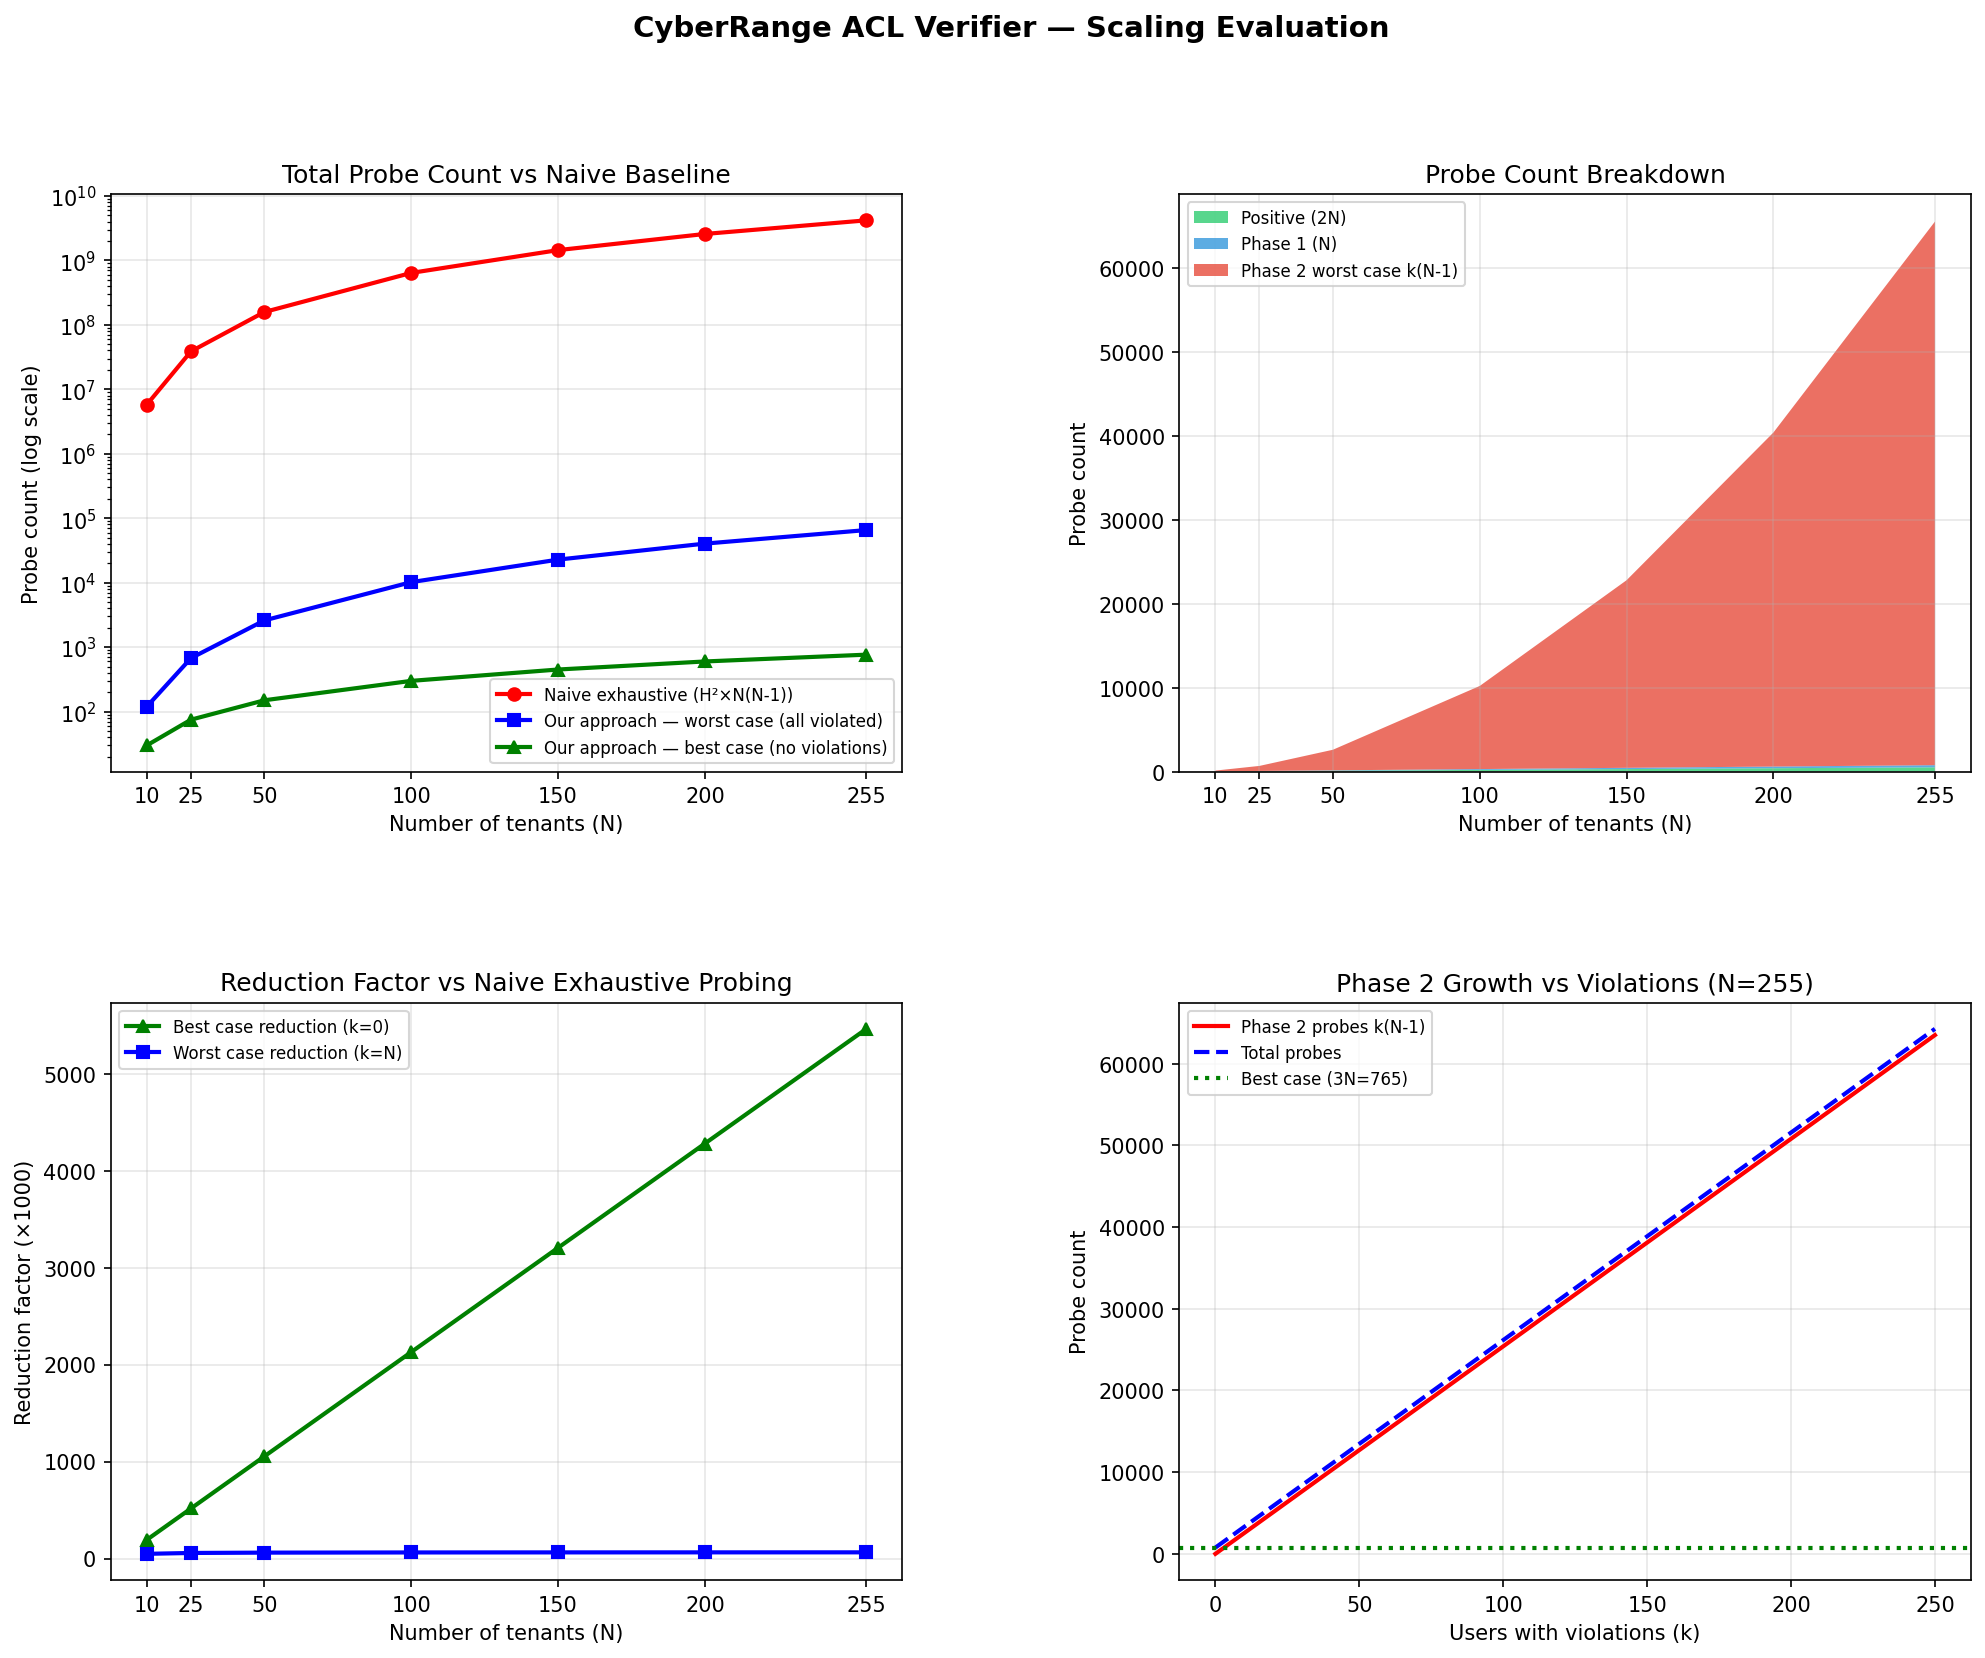
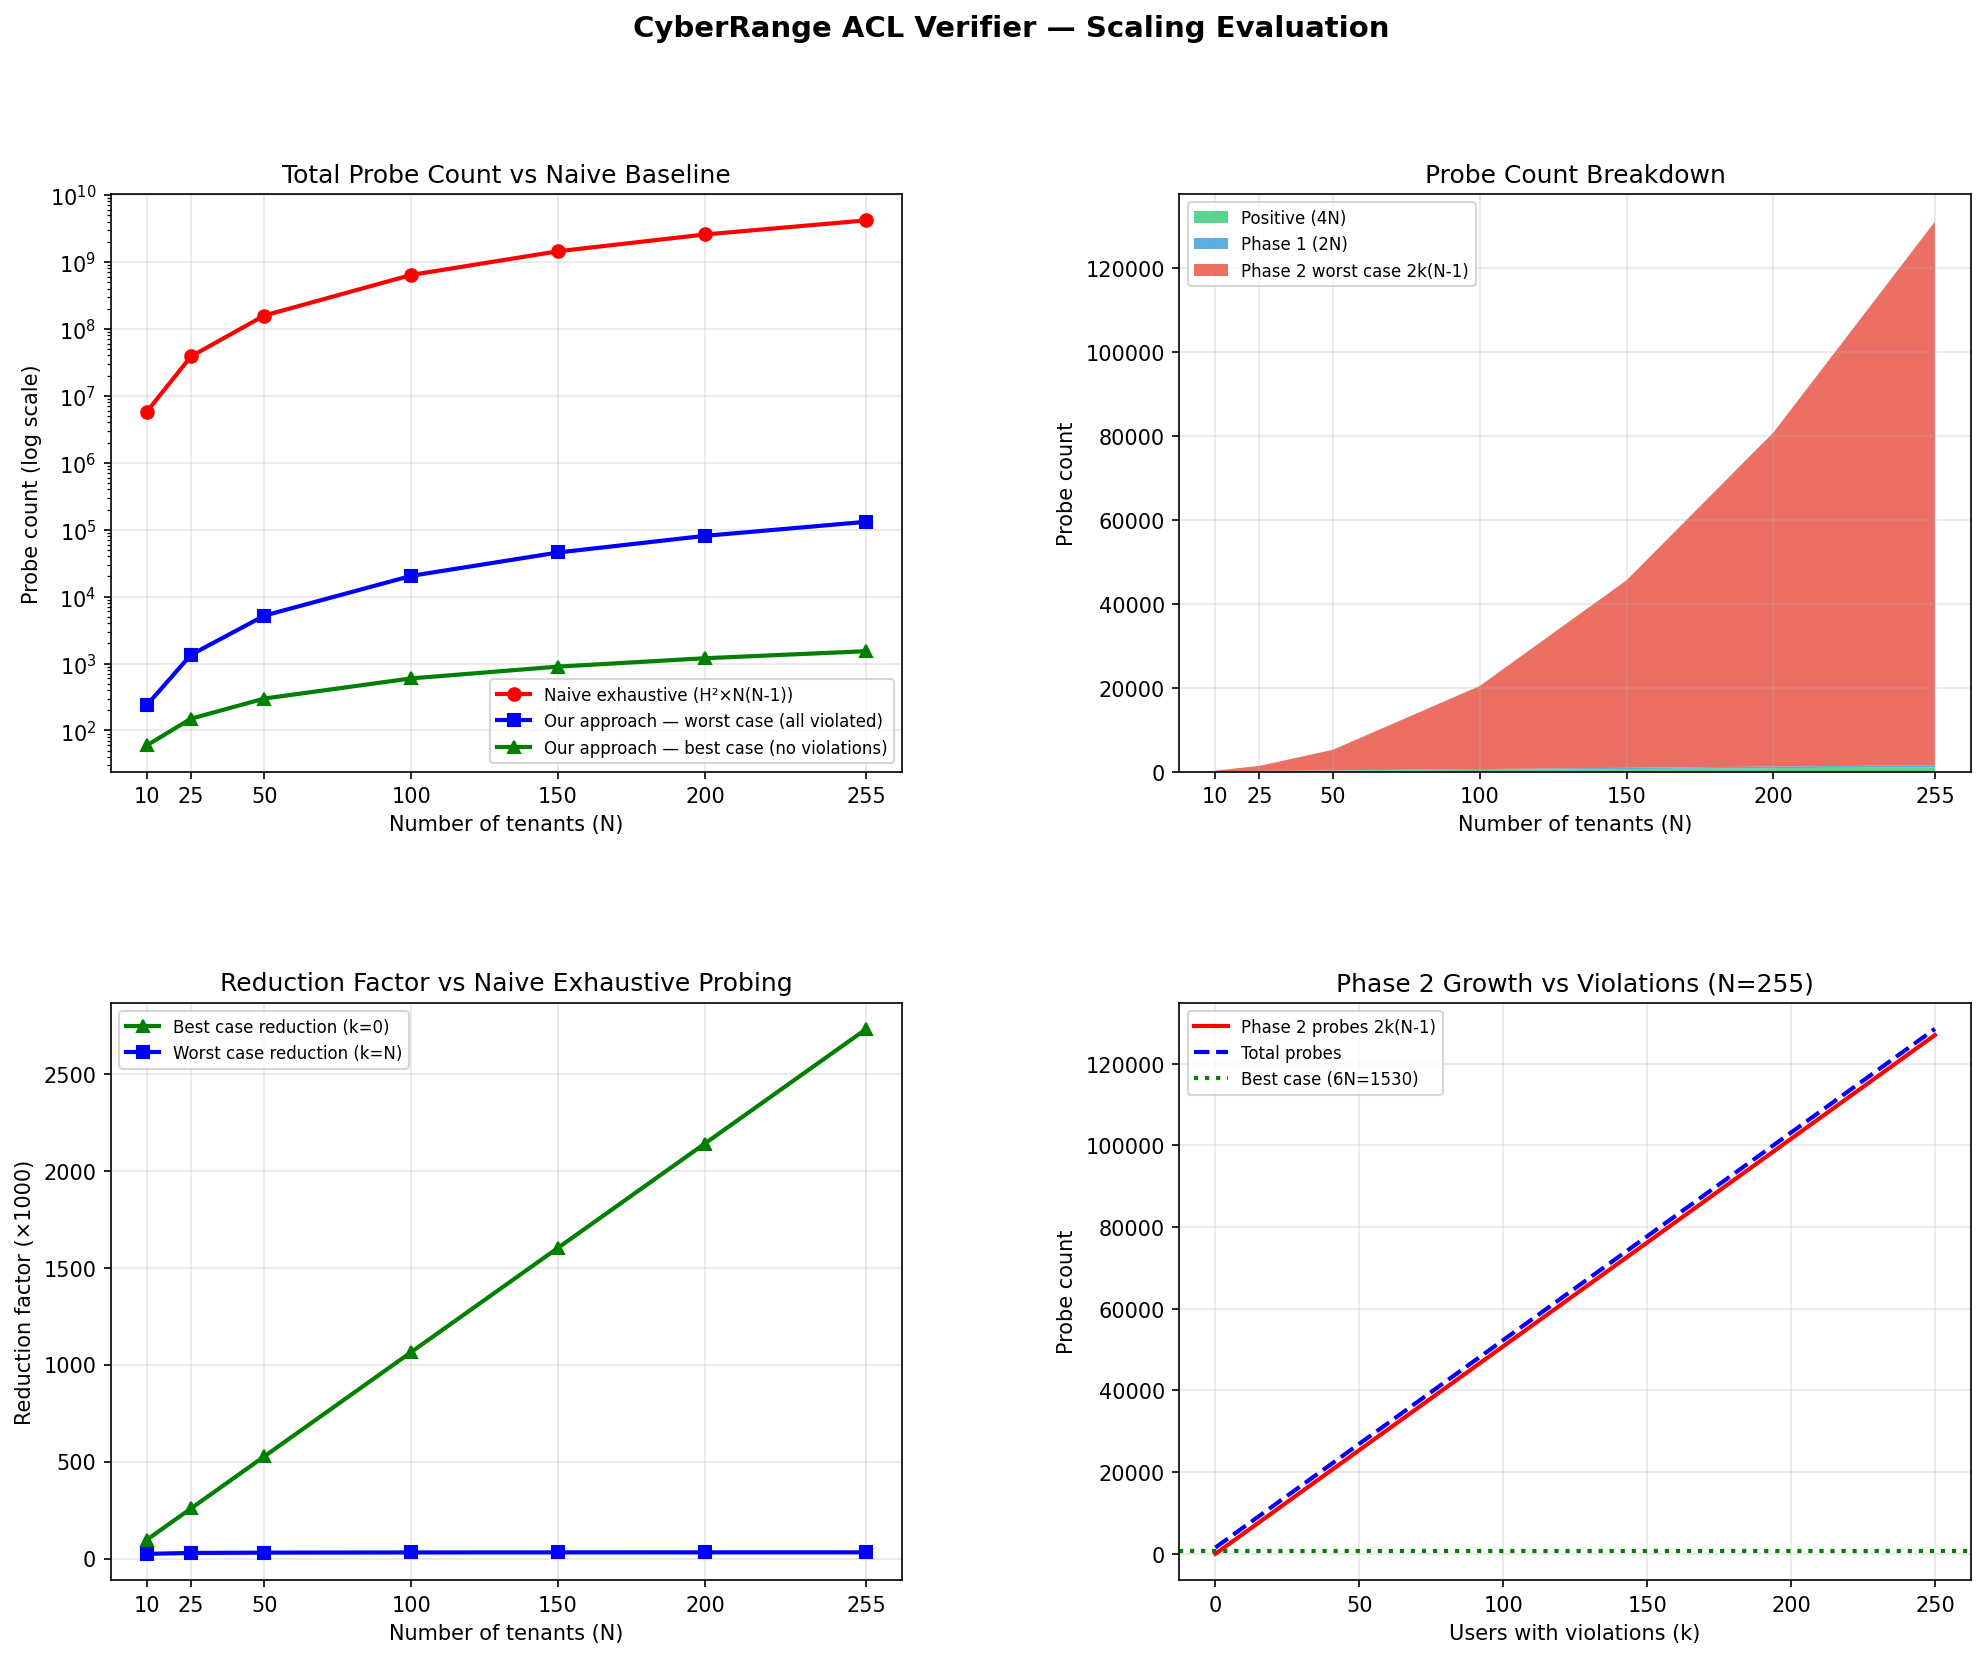
added tests for narrow rules and modified probes at few other places

diff --git a/tests/test_static_checker.py b/tests/test_static_checker.py
@@ -17,6 +17,7 @@ No network access. No SSH. No Headscale.
 
 import copy
 import pytest
+import ipaddress
 
 from static_policy_checker.policy_checker import StaticPolicyChecker, ViolationType
 from models.policy import ACLRule
@@ -153,6 +154,21 @@ class TestWrongSubnet:
     def test_correct_subnet_no_wrong_subnet_violation(self, db, policy):
         result = StaticPolicyChecker(db).check(policy)
         assert ViolationType.WRONG_SUBNET not in violation_types(result)
+
+    def test_wrong_subnet_with_narrow_rule_violation(self, db, policy):
+        """ User points to wrong subnet but with narrow rule i.e. partial reachability - still classified as wrong subnet and not narrow rule """
+        users = db.get_active_users()
+        students = [u for u in users if u.role.STUDENT == u.role]
+        s1, s2 = students[0], students[1]
+        s2_subnet = ipaddress.IPv4Network(db.get_subnet_for_user(s2.id).subnet_cidr)
+        s2_subnet_address = s2_subnet.network_address
+        faulty_prefix_length = 27 # > 24 for narrow rule
+        faulty_subnet = ipaddress.ip_network(f"{s2_subnet_address}/{faulty_prefix_length}")
+        faulty = set_dst_for(s1.headscale_username, [f"{faulty_subnet}:*"], policy)
+
+        result = StaticPolicyChecker(db).check(faulty)
+        assert ViolationType.WRONG_SUBNET in violation_types(result) and not ViolationType.NARROW_RULE in violation_types(result)
+        assert s1.headscale_username in usernames_with(result, ViolationType.WRONG_SUBNET)
 
 
 # ── OVERLY_BROAD_RULE ──────────────────────────────────────────────────────────
@@ -299,8 +315,36 @@ class TestOrphanRule:
         assert "ghost_user" not in result.flagged_users
 
 # ── NARROW_RULE ────────────────────────────────────────────────────────────────
-# class TestNarrowRule:
-#     def tesr_narrow_rule_
+class TestNarrowRule:
+    def test_narrow_rule_user_reaching_own_subnet_partially(self, db, policy):
+        users = db.get_active_users()
+        non_admin_users = [u for u in users if u.role != u.role.ADMIN]
+        s1 = non_admin_users[0]
+        s1_subnet = ipaddress.IPv4Network(db.get_subnet_for_user(s1.id).subnet_cidr)
+        s1_subnet_address = s1_subnet.network_address
+        faulty_prefix_length = 30 # > 24 for narrow rule
+        faulty_subnet = ipaddress.ip_network(f"{s1_subnet_address}/{faulty_prefix_length}")
+        faulty = set_dst_for(s1.headscale_username, [f"{faulty_subnet}:*"], policy)
+
+        result = StaticPolicyChecker(db).check(faulty)
+        assert ViolationType.NARROW_RULE in violation_types(result)
+        assert s1.headscale_username in usernames_with(result, ViolationType.NARROW_RULE)
+
+    def test_narrow_rule_not_escalate_phase2(self, db, policy):
+        """
+        Narrow rules are checked after WRONG_SUBNET detection. Remaining cases only reduce to reachability within the tenant's own subnet and are not isolation leaks to escalate to Phase 2
+        """
+        users = db.get_active_users()
+        non_admin_users = [u for u in users if u.role != u.role.ADMIN]
+        s1 = non_admin_users[0]
+        s1_subnet = ipaddress.IPv4Network(db.get_subnet_for_user(s1.id).subnet_cidr)
+        s1_subnet_address = s1_subnet.network_address
+        faulty_prefix_length = 30 # > 24 for narrow rule
+        faulty_subnet = ipaddress.ip_network(f"{s1_subnet_address}/{faulty_prefix_length}")
+        faulty = set_dst_for(s1.headscale_username, [f"{faulty_subnet}:*"], policy)
+
+        result = StaticPolicyChecker(db).check(faulty)
+        assert s1.headscale_username not in result.flagged_users
 
 # ── Multiple violations ────────────────────────────────────────────────────────
 

diff --git a/evaluation/scaling_evaluation.py b/evaluation/scaling_evaluation.py
@@ -101,7 +101,7 @@ def plot_all(results):
     # --- Plot 2: Probe count breakdown (stacked) ---
     ax2 = fig.add_subplot(gs[0, 1])
     ax2.stackplot(ns, positive, phase1, phase2_worst,
-                  labels=['Positive (2N)', 'Phase 1 (N)', 'Phase 2 worst case k(N-1)'],
+                  labels=['Positive (4N)', 'Phase 1 (2N)', 'Phase 2 worst case 2k(N-1)'],
                   colors=['#2ecc71', '#3498db', '#e74c3c'], alpha=0.8)
     ax2.set_xlabel('Number of tenants (N)')
     ax2.set_ylabel('Probe count')
@@ -127,12 +127,12 @@ def plot_all(results):
     ax4 = fig.add_subplot(gs[1, 1])
     n_fixed = 255
     k_values = list(range(0, n_fixed + 1, 10))
-    phase2_counts = [k * (n_fixed - 1) for k in k_values]
-    total_counts = [(2 * n_fixed + n_fixed + k * (n_fixed - 1)) for k in k_values]
-    ax4.plot(k_values, phase2_counts, 'r-', label='Phase 2 probes k(N-1)', linewidth=2)
+    phase2_counts = [2* k * (n_fixed - 1) for k in k_values]
+    total_counts = [(4 * n_fixed + 2 * n_fixed + 2 * k * (n_fixed - 1)) for k in k_values]
+    ax4.plot(k_values, phase2_counts, 'r-', label='Phase 2 probes 2k(N-1)', linewidth=2)
     ax4.plot(k_values, total_counts, 'b--', label='Total probes', linewidth=2)
     ax4.axhline(y=2 * n_fixed + n_fixed, color='g', linestyle=':', linewidth=2,
-                label=f'Best case (3N={3*n_fixed})')
+                label=f'Best case (6N={6*n_fixed})')
     ax4.set_xlabel('Users with violations (k)')
     ax4.set_ylabel('Probe count')
     ax4.set_title(f'Phase 2 Growth vs Violations (N={n_fixed})')

diff --git a/tests/test_oracle.py b/tests/test_oracle.py
@@ -232,6 +232,20 @@ class TestFaultInjection:
         assert outcome.result == ProbeResult.FAIL
         assert outcome.observed is True
 
+    def test_narrow_rule_pointing_to_own_subnet_partially(self, db, policy):
+        """ student2 points to its own subnet partially - reachability violation - should be caught by one of its positive probe for all narrow cases """
+        students = [u for u in db.get_active_users() if u.role.STUDENT == u.role]
+        s1 = students[0]
+        s1_subnet = db.get_subnet_for_user(s1.id).subnet_cidr
+        s1_subnet_modified = s1_subnet.replace(".0/24", ".0/28")
+
+        faulty = set_dst_for(s1.headscale_username, [f"{s1_subnet_modified}:*"], policy)
+        ip1 = s1_subnet.replace(".0/24", ".200")
+        outcome = run_single(faulty, s1.headscale_username, ip1, expected=True, phase=0)
+
+        assert outcome.result == ProbeResult.FAIL
+        assert outcome.observed is False
+
     def test_clean_policy_all_probes_pass(self, db, policy, user_subnet_map):
         """Full two-phase probe set against clean policy — every probe must PASS."""
         from probe_generator.two_phase_generator import TwoPhaseProbeGenerator

diff --git a/probe_executor/two_phase_pipeline.py b/probe_executor/two_phase_pipeline.py
@@ -43,7 +43,7 @@ class TwoPhasePipeline:
 
         # --- Stage 0: Static policy check ---
         # Catches structural violations (WRONG_SUBNET, OVERLY_BROAD_RULE,
-        # PRIVILEGE_ESCALATION, MISSING_RULE, DUPLICATE_RULES, ORPHAN_RULE)
+        # PRIVILEGE_ESCALATION, MISSING_RULE, DUPLICATE_RULES, ORPHAN_RULE, NARROW_RULE)
         # without touching the network. Flagged users are escalated to Phase 2
         # even if Phase 1 passes — this is the only way to catch WRONG_SUBNET
         # (a user pointing to a non-existent subnet shows 0 peers in Phase 1,
@@ -93,7 +93,7 @@ class TwoPhasePipeline:
             self.reporter.report(phase1_outcomes)
 
         # Merge Phase 1 failures + static checker flagged users for Phase 2.
-        # MISSING_RULE and DUPLICATE_RULES are excluded from static_flagged
+        # MISSING_RULE and DUPLICATE_RULE, NARROW_RULES are excluded from static_flagged
         # (see StaticCheckResult.flagged_users) — they don't cause isolation
         # failures so there's nothing for Phase 2 to localise.
         users_with_leaks = list(phase1_flagged | static_flagged)

diff --git a/probe_generator/two_phase_generator.py b/probe_generator/two_phase_generator.py
@@ -81,13 +81,13 @@ class TwoPhaseProbeSet:
         print(f"Reduction factor:          {naive_exhaustive / max(our_worst_case, 1):,.0f}x")
         print()
         print(f"Best case  (k=0): {len(self.positive_probes) + len(self.phase1_probes)} probes (6N)")
-        print(f"Worst case (k=N): {len(self.positive_probes) + len(self.phase1_probes) + n_users * (n_users - 1)} probes (2N + N(N-1))")
+        print(f"Worst case (k=N): {len(self.positive_probes) + len(self.phase1_probes) + 2 * n_users * (n_users - 1)} probes (2N + 2N(N-1))")
 
 
 class TwoPhaseProbeGenerator:
     HOST_OFFSETS = [10,200]
 
-    def __init__(self, policy, user_subnet_map: dict):
+    def __init__(self, user_subnet_map: dict):
         """
         Args:
             user_subnet_map: headscale_username → subnet_cidr, from DB ground truth.

diff --git a/README.md b/README.md
@@ -8,7 +8,7 @@ Automated verification engine for **Headscale ACL policies** in the CySTAR multi
 
 In a multi-tenant cyber range, every student gets an isolated `/24` subnet and a dedicated subnet router. A single misconfigured ACL rule — a student pointing to another tenant's subnet, a `/16` instead of a `/24`, a missing rule — can silently break isolation or deny a student access to their own lab. With N tenants, exhaustive network probing requires O(N²·H²) probes (where H = 254 usable IPs per subnet). At N=255 that's over 4 billion probes.
 
-This tool verifies the same invariants in **3N probes** in the best case.
+This tool verifies the same invariants in **6N probes** in the best case.
 
 ---
 
@@ -31,7 +31,7 @@ Structural diff of the ACL against the database. No network access, no SSH. Catc
 
 `WRONG_SUBNET` in particular is invisible to dynamic probing — a user pointing to a non-existent subnet shows zero peers in Phase 1, which looks clean. The static checker catches it before a single SSH call is made.
 
-### Stage 1 — Phase 1 Canary Sweep (O(N))
+### Stage 1 — Phase 1 Sweep (O(N))
 
 Each router SSHes into its subnet router and runs `tailscale status`. If a peer that should be absent appears in the output, that's an isolation leak. One SSH call per router, results cached.
 
@@ -45,11 +45,11 @@ Only triggered for users who failed Phase 1 or were flagged by the static checke
 
 | Scenario                        | Probes        |
 | ------------------------------- | ------------- |
-| Best case (no violations)       | 3N            |
-| Typical (k violations, k ≪ N)   | 3N + k(N-1)   |
-| Worst case (all users violated) | 2N + N²       |
+| Best case (no violations)       | 6N            |
+| Typical (k violations, k ≪ N)   | 6N + 2k(N-1) |
+| Worst case (all users violated) | 4N + 2N²      |
 | Naive exhaustive baseline       | 254² × N(N-1) |
-| Reduction at N=255              | ~5.4 million× |
+| Reduction at N=255(best case)   | ~2.7 million× |
 
 ![Scaling Evaluation](evaluation/scaling_evaluation.png)
 
